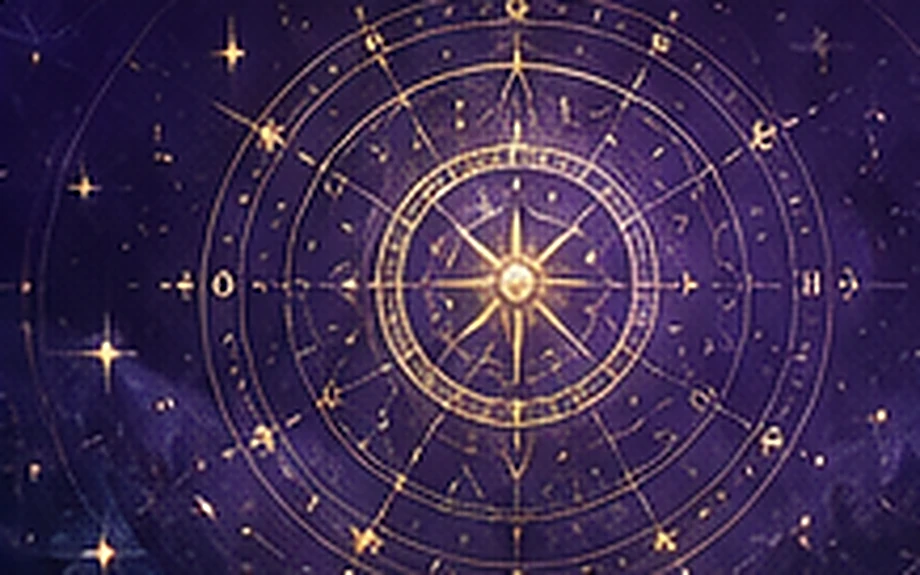
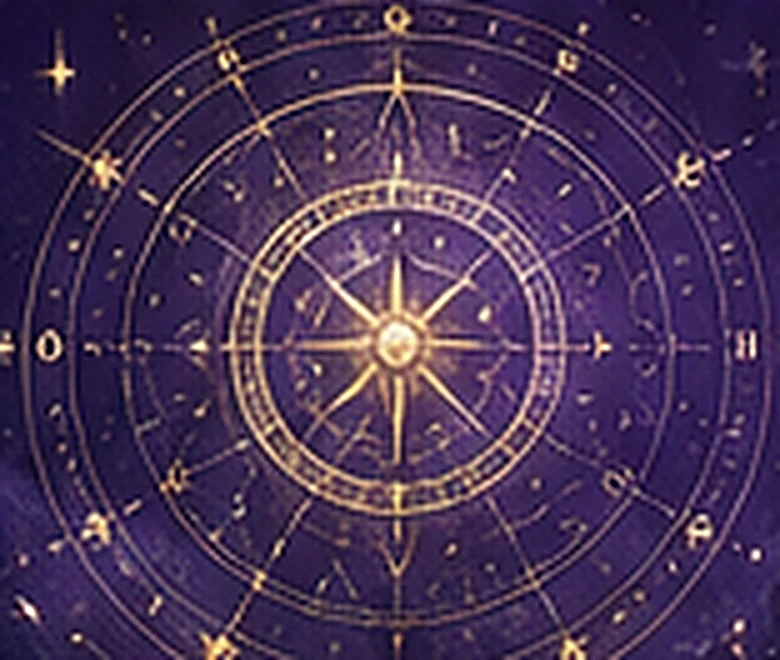
사주 그림에서 원반이 가운데 오도록 다시 자름 (한/영)
원반 중심이 그림 안에서 왼쪽으로 치우쳐 있었습니다.
중심에 맞춰 정사각에 가깝게 잘라 좌우 여백을 같게 했습니다.

diff --git a/style.css b/style.css
@@ -179,7 +179,7 @@ h1, h2, h3 { line-height: 1.3; letter-spacing: -.02em; margin: 0; }
 .shots figcaption { margin-top: 8px; font-size: 13px; color: var(--muted); text-align: center; }
 
 /* 사진 한 장이 카드 가운데를 채우는 경우 (MBTI사주) — 위아래로 넉넉히 띄웁니다 */
-.game-art { margin: 30px auto 4px; max-width: 460px; }
+.game-art { margin: 30px auto 4px; max-width: 420px; }
 .game-art img {
   width: 100%; height: auto; display: block;
   border-radius: 14px; border: 1px solid var(--line-2);

diff --git a/index.html b/index.html
@@ -187,7 +187,7 @@
         </p>
 
         <figure class="game-art">
-          <img src="assets/saju-cover.webp" alt="별자리와 사주를 겹쳐 그린 금빛 원반" loading="lazy" width="920" height="575">
+          <img src="assets/saju-cover.webp" alt="별자리와 사주를 겹쳐 그린 금빛 원반" loading="lazy" width="780" height="660">
         </figure>
 
         <div class="game-cta">

diff --git a/en/index.html b/en/index.html
@@ -185,7 +185,7 @@
         </p>
 
         <figure class="game-art">
-          <img src="../assets/saju-cover.webp" alt="A golden zodiac wheel over a starlit night sky" loading="lazy" width="920" height="575">
+          <img src="../assets/saju-cover.webp" alt="A golden zodiac wheel over a starlit night sky" loading="lazy" width="780" height="660">
         </figure>
 
         <div class="game-cta">
